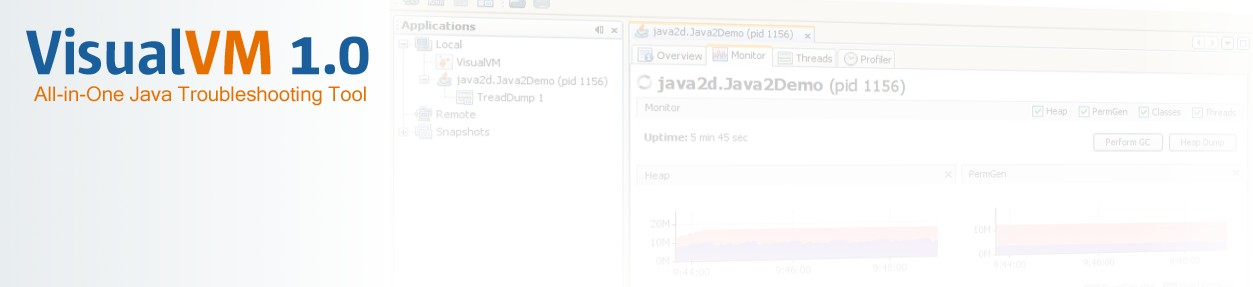
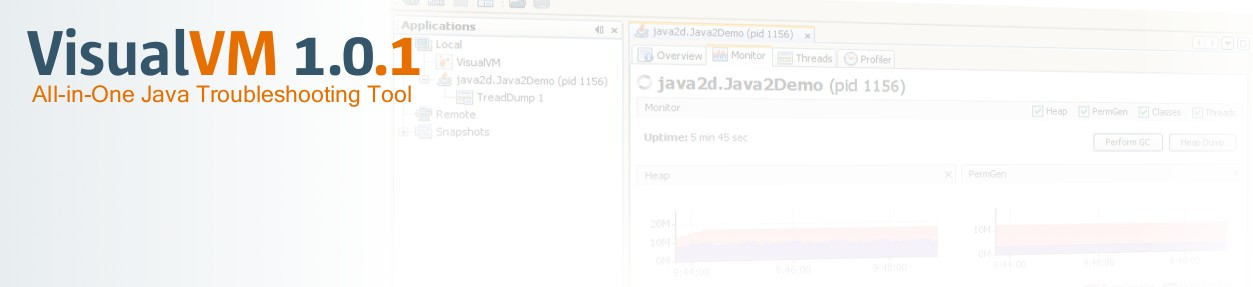
Images for profiler blog

Changed region(s): [[0.0, 0.0836, 0.3424, 0.3624]]

diff --git a/www/relnotes10.html b/www/relnotes10.html
@@ -1,7 +1,7 @@
 <html>
 <head>
     
-    <title>VisualVM 1.0.1 Release Notes</title>
+    <title>VisualVM 1.0 Release Notes</title>
     
     <style>            
             
@@ -42,14 +42,10 @@
     <div id="contents_contents">
         <div id="contents_main">
             
-            <h1>VisualVM 1.0.1 Release Notes</h1>
-            
-            <p>
-                VisualVM is a visual tool integrating several commandline JDK tools and lightweight profiling capabilities. Designed for both production and development time use, it further enhances the capability of monitoring and performance analysis for the Java SE platform.
-            </p>
+            <h1>VisualVM 1.0 Release Notes</h1>
             
             <p style="margin-bottom: 15px;">
-                VisualVM 1.0.1 is a bugfix release based on VisualVM 1.0. See the <a href="#changes">Changes In 1.0.1</a> section for list of changes and bugfixes since the VisualVM 1.0.
+                VisualVM is a visual tool integrating several commandline JDK tools and lightweight profiling capabilities. Designed for both production and development time use, it further enhances the capability of monitoring and performance analysis for the Java SE platform.
             </p>
             
             <a name="system_requirements"></a>
@@ -77,39 +73,23 @@
                 </p>
             </div>
             
-            <a name="changes"></a>
-            <h3>Changes In 1.0.1</h3>
-            <div>                
-                <p style="margin-top: 5px;">
-                    <b>Features and enhancements:</b><br>
-                    <ul>
-                        <li>Profiler supports OpenJDK
-                        </li>
-                        
-                        <li>Profiler is silently disabled on unsupported platforms, the rest of the tool can run unaffected
-                        </li>
-
-                        <li>Minor improvements of warning messages in the tool and plugins to better describe reported problems
-                        </li>
-                        
-                        <li>New plugins available on the Plugin center: JvmCapabilities, KillApplication, SysTray
-                        </li>
-                    </ul>
-                </p>
-                
-                <p style="margin-bottom: 10px;">
-                    <b>Fixed bugs:</b> <a href="https://visualvm.dev.java.net/issues/buglist.cgi?Submit+query=Submit+query&issue_type=DEFECT&component=visualvm&resolution=FIXED&target_milestone=1.0.1&email1=&emailtype1=exact&emailassigned_to1=1&email2=&emailtype2=exact&emailreporter2=1&issueidtype=include&issue_id=&changedin=&votes=&chfield=creation_ts&chfieldfrom=&chfieldto=Now&chfieldvalue=&short_desc=&short_desc_type=fulltext&long_desc=&long_desc_type=fulltext&issue_file_loc=&issue_file_loc_type=fulltext&status_whiteboard=&status_whiteboard_type=fulltext&field0-0-0=noop&type0-0-0=noop&value0-0-0=&cmdtype=doit&order=Reuse+same+sort+as+last+time">IssueTracker query</a>.
-                </p>
-            </div>
-            
             <a name="known_problems"></a>
             <h3>Known Problems</h3>
             <div>                
                 <ul>
+                    <li><a href="https://visualvm.dev.java.net/issues/show_bug.cgi?id=152">Issue 152</a>: VisualVM encountering problems with JDK 7 b27 and newer
+                    </li>
+                    
                     <li><a href="https://visualvm.dev.java.net/issues/show_bug.cgi?id=120">Issue 120</a>: JMX application datasource cannot be reused on application restart
                     </li>
                     
                     <li><a href="https://visualvm.dev.java.net/issues/show_bug.cgi?id=72">Issue 72</a>: Running application sometimes not recognized
+                    </li>
+                    
+                    <li><a href="https://visualvm.dev.java.net/issues/show_bug.cgi?id=91">Issue 91</a>, <a href="https://visualvm.dev.java.net/issues/show_bug.cgi?id=37">Issue 37</a>: Close buttons missing or incorrectly displayed in subtabs on GTK LaF
+                    </li>
+                    
+                    <li><a href="https://visualvm.dev.java.net/issues/show_bug.cgi?id=53">Issue 53</a>: No action on Proxy Configuration button
                     </li>
                 </ul>
                 
@@ -125,7 +105,6 @@
         <h3 class="first">On This Page</h3>
         <div>
             <a href="#system_requirements">System Requirements</a>
-            <a href="#changes">Changes In 1.0.1</a>
             <a href="#known_problems">Known Problems</a>
         </div>
         

diff --git a/www/index.html b/www/index.html
@@ -328,6 +328,12 @@
             <h3>News</h3>
             <div id="news" style="margin-bottom: 10px;">
                 <!-- Please always display 3 items here. The item to be removed should be archived on news.html -->
+                
+                    <p><span class="news_date">September 4th, 2008:</span> VisualVM 1.0.1 released. This is mostly a bugfix release, see the <a href="https://visualvm.dev.java.net/issues/buglist.cgi?Submit+query=Submit+query&component=visualvm&resolution=FIXED&target_milestone=1.0.1&email1=&emailtype1=exact&emailassigned_to1=1&email2=&emailtype2=exact&emailreporter2=1&issueidtype=include&issue_id=&changedin=&votes=&chfield=creation_ts&chfieldfrom=&chfieldto=Now&chfieldvalue=&short_desc=&short_desc_type=fulltext&long_desc=&long_desc_type=fulltext&issue_file_loc=&issue_file_loc_type=fulltext&status_whiteboard=&status_whiteboard_type=fulltext&field0-0-0=noop&type0-0-0=noop&value0-0-0=&cmdtype=doit&order=Reuse+same+sort+as+last+time">list of enhancements and fixed bugs</a>. Also three
+                    new <a href="plugins.html">plugins</a> are available on the Plugin center. The tool can be downloaded from the <a href="download.html">Download</a> page, sources are available in
+                    <a href="https://visualvm.dev.java.net/source/browse/visualvm/visualvm/?only_with_tag=release101"><code>release101</code></a> branch.
+                </p>
+                
                 <p class="news_highlight"><span class="news_date">July 8th, 2008:</span> VisualVM 1.0 released. VisualVM is a free opensource visual tool integrating several
                     commandline JDK tools and lightweight performance and memory profiling capabilities. The tool is available under the <a href="https://visualvm.dev.java.net/legal/gplv2+ce.html">GNU General
                     Public License v2 with Classpath Exception</a> license, binaries can be downloaded from <a href="download.html">Download</a> page, sources are available in <a href="https://visualvm.dev.java.net/source/browse/visualvm/visualvm/?only_with_tag=release10"><code>release10</code></a> branch.
@@ -335,11 +341,6 @@
 
                 <p><span class="news_date">July 8th, 2008:</span> JDK 6 Update 7 with Java VisualVM released. Starting from JDK 6 Update 7, VisualVM is also available
                     as a JDK tool called Java VisualVM. This way you will get a stable tool tested with respective JDK distribution. Latest Sun JDK 6 update can be downloaded <a href="http://java.sun.com/javase/downloads/index.jsp">here</a>.
-                </p>
-
-                <p><span class="news_date">July 8th, 2008:</span> Project pages redesigned. We have updated project pages to be visually consistent with the tool,
-                    to provide all the information necessary for VisualVM users and plugin developers and to be easy to use. If you can't find the information you are
-                    searching for, please let us know on a <a href="mailto:feedback@visualvm.dev.java.net">mailing list</a>.
                 </p>
                 
                 <p class="previous_link"><a href="news.html">news archive</a>

diff --git a/www/download.html b/www/download.html
@@ -39,8 +39,8 @@
             
             <p>
                 VisualVM is available in two distributions: <b>VisualVM</b> available at <a href="https://visualvm.dev.java.net">visualvm.dev.java.net</a> and
-                <b>Java VisualVM</b> available as a JDK tool in Sun JDK distributions starting from JDK 6 update 7. In initial releases these tools are identical,
-                but in the future Java VisualVM will be a stable tool tested with each JDK distribution, whereas VisualVM will be a bleeding-edge distribution with the latest
+                <b>Java VisualVM</b> available as a JDK tool in Sun JDK distributions starting from JDK 6 update 7. The Java VisualVM is a stable tool tested with each JDK distribution, latest JDK update
+                including Java VisualVM can be downloaded <a href="http://java.sun.com/javase/downloads/index.jsp">here</a>. VisualVM available on this page is a bleeding-edge distribution with the latest
                 features and bug fixes.
             </p>
             
@@ -52,7 +52,7 @@
             <a name="download"></a>
             <h3>Download</h3>
             <div style="background: #f0f1f2; padding: 10px; padding-left: 20px; margin-bottom: 10px;">
-                <div><a href="https://visualvm.dev.java.net/files/documents/7163/102851/visualvm_10.zip"><span style="font-size: 14px; font-weight: bold;">VisualVM 1.0</span></a> (.zip, 7.9MB)</div>
+                <div><a href="https://visualvm.dev.java.net/files/documents/7163/109830/visualvm_101.zip"><span style="font-size: 14px; font-weight: bold;">VisualVM 1.0.1</span></a> (.zip, 7.9MB)</div>
             </div>
             
             <a style="clear: both;" name="first_steps"></a>

diff --git a/www/plugins.html b/www/plugins.html
@@ -106,6 +106,27 @@
                 <i>Available on VisualVM Plugin Center</i>
                 </p>
                 
+                <hr/>
+                
+                <p><a href="images/jvmcap.png" rel="lightbox[plugins]" title="JVM Capabilities."><img src="images/jvmcap_small.png"/></a><b>JVM Capabilities.</b>
+                Adds an extra section to the Overview tab displaying capabilities of monitored application's JVM.<br>
+                <i>Available on VisualVM Plugin Center</i>
+                </p>
+                
+                <hr/>
+                
+                <p><a href="images/killapp.png" rel="lightbox[plugins]" title="Kill Application."><img src="images/killapp_small.png"/></a><b>Kill Application.</b>
+                Allows to kill monitored application which became unresponsive.<br>
+                <i>Available on VisualVM Plugin Center</i>
+                </p>
+                
+                <hr/>
+                
+                <p><a href="images/systray.png" rel="lightbox[plugins]" title="System Tray."><img src="images/systray_small.png"/></a><b>System Tray.</b>
+                Allows to minimize/restore running VisualVM instance into/from system tray. Not supported on Mac OS X (does nothing).<br>
+                <i>Available on VisualVM Plugin Center</i>
+                </p>
+                
                 <h4>In Development</h4>
                 
                 <p><a href="images/visualgc.png" rel="lightbox[plugins]" title="Visual GC Plugin."><img src="images/visualgc_small.png"/></a><b>Visual GC Plugin.</b>

diff --git a/www/news.html b/www/news.html
@@ -72,6 +72,11 @@
             <h3>News</h3>
             <div id="news">
                 
+                <p><span class="news_date">July 8th, 2008:</span> Project pages redesigned. We have updated project pages to be visually consistent with the tool,
+                    to provide all the information necessary for VisualVM users and plugin developers and to be easy to use. If you can't find the information you are
+                    searching for, please let us know on a <a href="mailto:feedback@visualvm.dev.java.net">mailing list</a>.
+                </p>
+                
                 <p><span class="news_date">May 6th, 2008:</span> VisualVM 1.0 RC released. This is mainly a stabilization
                     release: many bugs have been fixed and performance and memory management have been significantly improved. The only new feature is
                     the Start Page which contains useful links to VisualVM documentation and JDK monitoring and troubleshooting guides.
